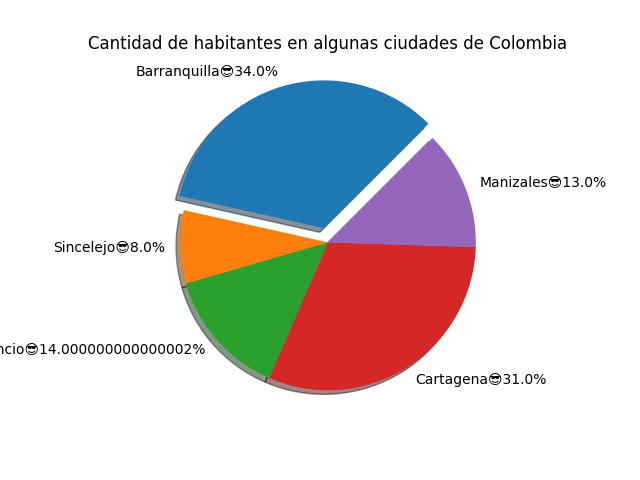
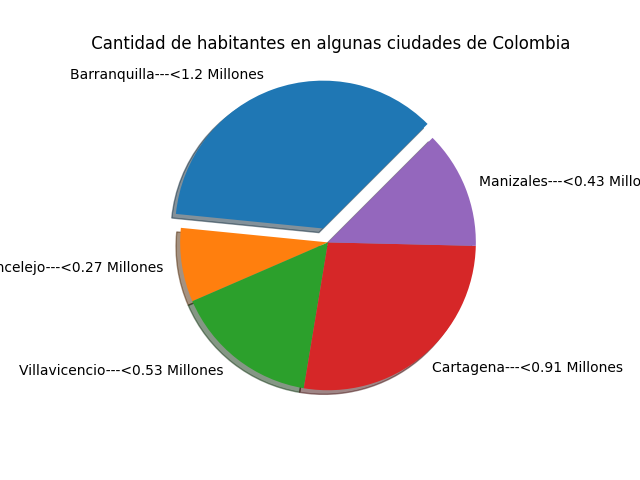
...

diff --git a/Práctica/pieCiudadesColombianas.py b/Práctica/pieCiudadesColombianas.py
@@ -1,15 +1,15 @@
 import matplotlib.pyplot as plt
 pieCiudades = ['Barranquilla','Sincelejo','Villavicencio','Cartagena','Manizales']
 
-porcentajesHabitantes = [34,8,14,31,13]
+cantidadHabitantes = [1.2,0.27,0.53,0.91,0.43]
 
-def etiquetarElementosPorcentuales (porcentanjesHabitantes,pieCiudades,indicador= '-->'):
+def etiquetarElementosPorcentuales (cantidadHabitantes ,pieCiudades,indicador= '-->'):
     acumulador = 0
     for elemento in porcentajesHabitantes:
         acumulador += elemento
 
     for i in range (len(pieCiudades)):
-        pieCiudades [i] += indicador + str (porcentajesHabitantes [i]/ acumulador * 100) + '%'
+        pieCiudades [i] += indicador + str (cantidadHabitantes [i]/ acumulador * 100) + ' Millones '
 
 
 pieExplode = [0.1, 0 , 0 , 0 , 0]
@@ -17,14 +17,14 @@ acumulador = 0
 porcentajesHabitantes= [34,8,14,31,13]
 pieCiudades = ['Barranquilla','Sincelejo','Villavicencio','Cartagena','Manizales']
 
-etiquetarElementosPorcentuales(porcentajesHabitantes, pieCiudades,'😎')
-plt.pie(porcentajesHabitantes,labels = pieCiudades,
+etiquetarElementosPorcentuales(cantidadHabitantes, pieCiudades,'--->')
+plt.pie(cantidadHabitantes,labels = pieCiudades,
         explode=pieExplode, 
         shadow=True,
         startangle=45)
 
 ###########################
-plt.title('Porcentajes según la cantidad de habitantes en algunas ciudades de Colombia')
+plt.title(' Cantidad de habitantes en algunas ciudades de Colombia')
 plt.savefig('PieCiudadesColombianas.png')
 ###########################
 plt.show ()
